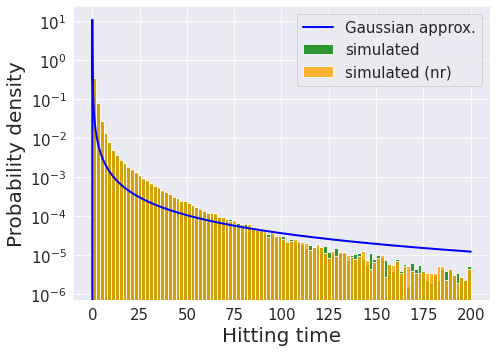
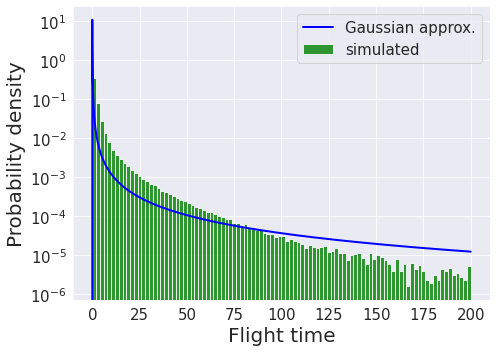
figure and tables

Changed region(s): [[0.1815, 0.2188, 0.9677, 0.875], [0.6048, 0.1875, 0.9073, 0.25], [0.4536, 0.9062, 0.6956, 1.0]]

diff --git a/content/post/astro_2/index.md b/content/post/astro_2/index.md
@@ -71,6 +71,13 @@ Contrary to the continuous time Gaussian case, computing $\tau_{\alpha}$ for the
 
 {{< figure src="astro_vs_gaussian_flight_time_distributions.png" >}}
 
+The simulation reveals that the inverse Gaussian approximation underestimates the probability of small flight times and overestimates that of longer ($>100$) flight times. In other words, the inverse Gaussian approximation is too optimisitc and does not account properly for the high risk of early crash. We report mean, standard deviation and percentiles of $\tau_{\alpha}$ under both the simulated Astro and the inverse Gaussian models (confidence intervals for the simulated statistics are calculated by bootsrap with 1,000 independent replications).
+
+|                   | $\mu$              | $\sigma$           | 5th             | 25th            | 50th            | 75th            | 95th               |
+|-------------------|--------------------|--------------------|-----------------|-----------------|-----------------|-----------------|--------------------|
+| Astro (simulated) | 3.20 [3.19 ; 3.21] | 60.8 [56.9 ; 64.1] | 1.0 [1.0 ; 1.0] | 1.0 [1.0 ; 1.0] | 1.0 [1.0 ; 1.0] | 2.0 [2.0 ; 2.0] | 11.0 [11.0 ; 11.0] |
+| IG approxmation   | 3.17               | 20.67              | 0.00            | 0.01            | 0.02            | 0.09            | 2.14               |
+
 
 ### TBC
 

diff --git a/content/post/astro_1/index.md b/content/post/astro_1/index.md
@@ -148,6 +148,12 @@ We plot below this density for the Astro parameters ($\mu=0.63, \sigma=20.67, \a
 
 {{< figure src="ig_distribution.png" >}}
 
+
+|                 | $\mu$ | $\sigma$ | 5th  | 25th | 50th | 75th | 95th |
+|-----------------|-------|----------|------|------|------|------|------|
+| IG approxmation | 0.63  | 20.67    | 0.00 | 0.01 | 0.02 | 0.09 | 2.14 |
+
+
 ## What's next?
 Next time, we will talk about the flight time for the true Astro distribution, rather than under the Gaussian approximation. Closed-form expression of $\tau_{\alpha}$ are not available in this case, so simulations will prove handy.
 
